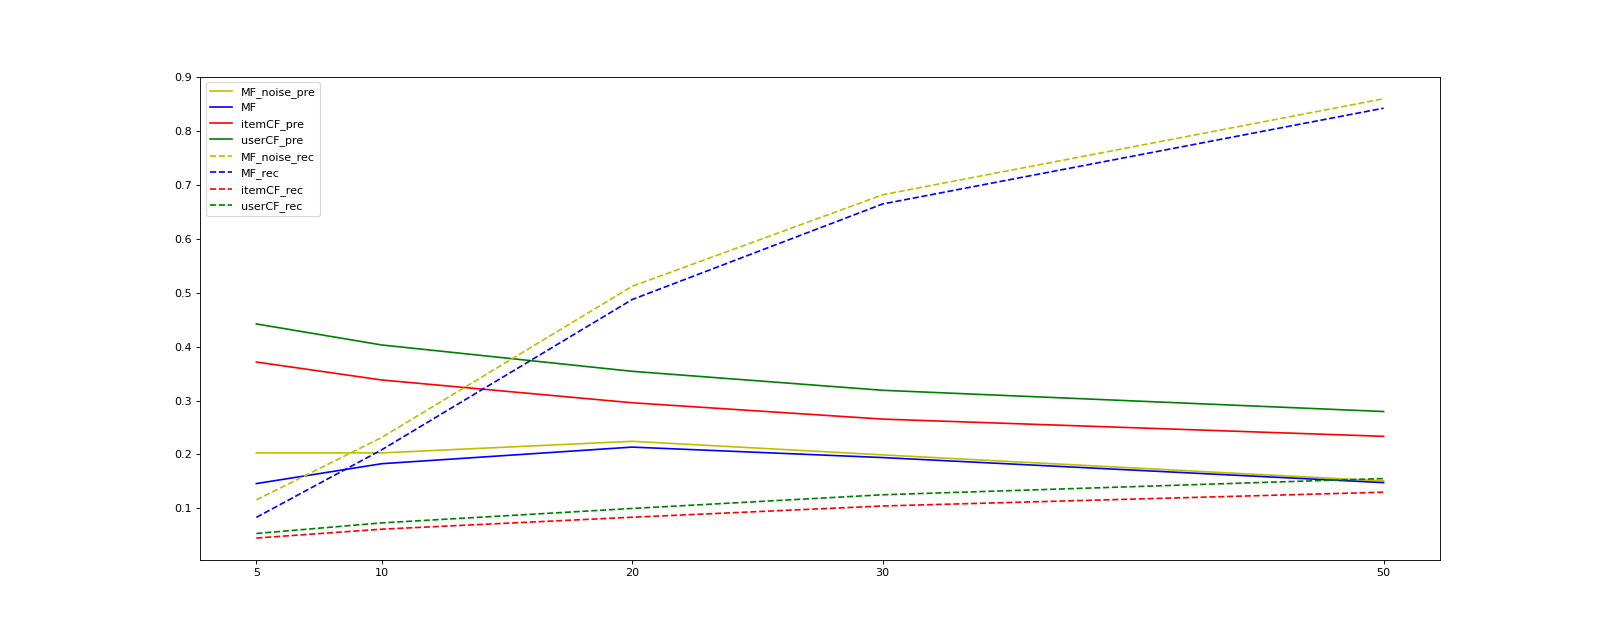
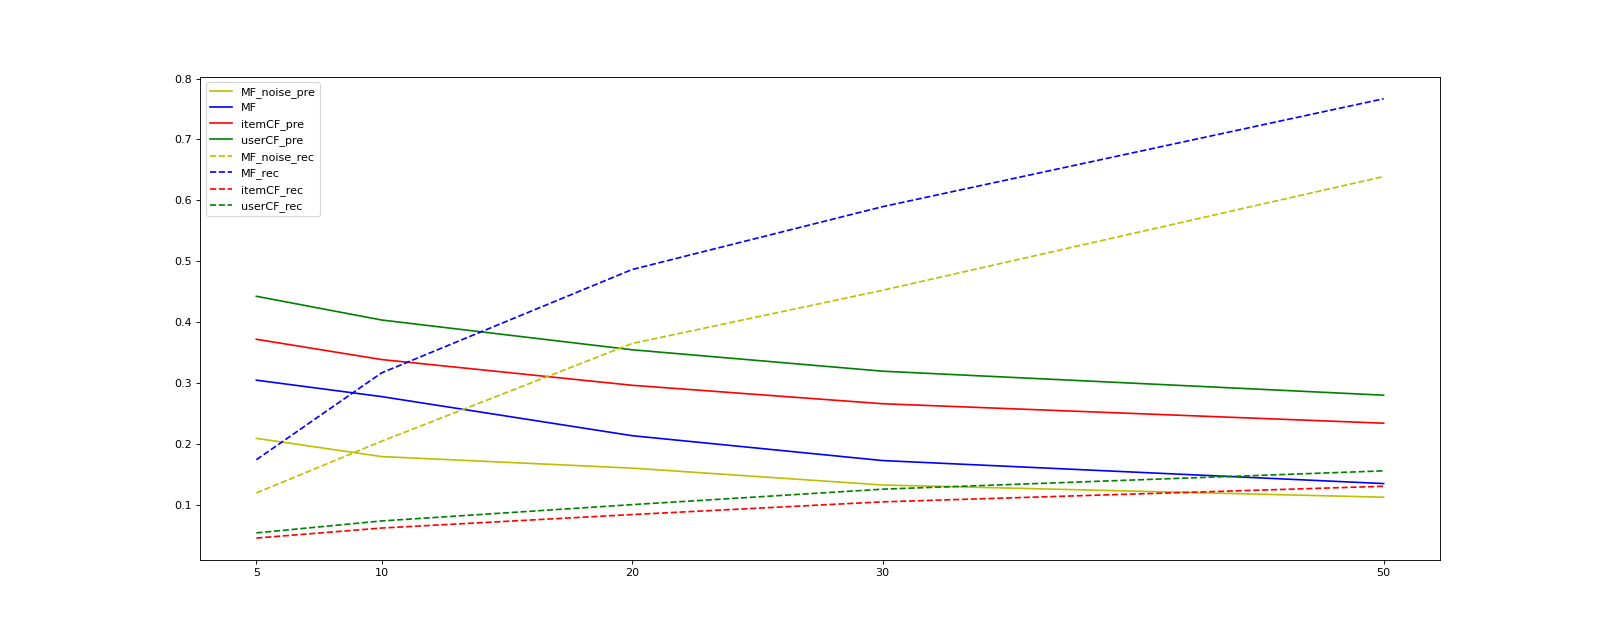
2021年3月22日18点55分

diff --git a/MF/test/evaluate.py b/MF/test/evaluate.py
@@ -18,7 +18,7 @@ test_X, test_y = test
 model = MF(feature_columns, use_bias)
 model.summary()
 # ========================load weights==================================
-model.load_weights('../res/my_weights/MF_noise/')  # with bias(avg+user_bias+item_bias)
+model.load_weights('../res/my_weights/MF/')  # with bias(avg+user_bias+item_bias)
 p, q, user_bias, item_bias = model.get_layer("mf_layer").get_weights()
 model.compile(loss='mse', optimizer=tf.keras.optimizers.SGD(), metrics=['mse'])
 # print("model's sqrt: %f" % np.sqrt(model.evaluate(test_X, test_y)[1]))
@@ -37,16 +37,15 @@ rec_df = pd.DataFrame(recommendation.T, index=range(1, recommendation.shape[1] +
 '''
 对于每个用户 
     对于测试集中该用户已经观看过的每一部电影：
-        1) 取样该用户从未观看过的100部电影。假定用户没有看过某部电影等于用户与该电影没有关联关系，即感兴趣程度低；
-        2) 推荐系统基于该用户从未观看过的100部电影+测试集中该用户已经观看过的电影，生成按照推荐度从高到低排名的物品列表。取Top-N作为推荐列表
-        3) 计算推荐给用户的Top-N推荐的准确性。即如果测试集用户已经观看过的这1部电影出现在TOP-N推荐中，则计1. 最后统计出一个比例
-        4) 对每个用的TOP-N推荐的准确性进行整合，形成一个总指标。
+        1) 取样该用户从未观看过的1000部电影。假定用户没有看过某部电影等于用户与该电影没有关联关系，即感兴趣程度低；
+        2) 推荐系统基于该用户从未观看过的1000部电影+测试集中该用户已经观看过的电影，生成按照推荐度从高到低排名的物品列表。取Top-N作为推荐列表
+        3) 计算推荐给用户的Top-N推荐的召回率。即如果测试集用户已经观看过的这1部电影出现在TOP-N推荐中，则计1. 最后统计出一个比例
+        4) 对每个用户的TOP-N推荐的召回率进行整合，形成一个总指标。
 '''
 
 
-def preAndrec(train, test, N):
-    hit = 0
-    all_pre = 0
+def eva_rec(train, test, N):
+    hit_rec = 0
     all_rec = 0
     # 统计结果
     all_items = set(data_df['MovieId'].unique())
@@ -54,36 +53,60 @@ def preAndrec(train, test, N):
         train_items = set(train.loc[user_id].values.flatten())
         test_items = set(test.loc[user_id].values.flatten())
         other_items = all_items - train_items.union(test_items)
-        random_items = set(random.sample(other_items, 100))
-        random_items = random_items.union(test_items)
-        sort_values = rec_df[user_id].loc[random_items].sort_values(ascending=False)[:N]
-        hit += len(test_items & set(sort_values.index.values))
-        all_pre += N
+        for idx in test_items:
+            random_items = random.sample(other_items, 1000)
+            random_items.append(idx)
+            sort_values = rec_df[user_id].loc[random_items].sort_values(ascending=False)[:N]
+            hit_rec += int(idx in set(sort_values.index.values))
+
         all_rec += len(test_items)
-    return hit / (all_pre * 1.0), hit / (all_rec * 1.0)
+    return hit_rec / (all_rec * 1.0)
+
+
+def eva_acc(train, test, N):
+    hit_acc = 0
+    all_acc = 0
+    # 统计结果
+    all_items = set(data_df['MovieId'].unique())
+    for user_id in test.index.unique().values:
+        train_items = set(train.loc[user_id].values.flatten())
+        test_items = set(test.loc[user_id].values.flatten())
+        other_items = all_items - train_items.union(test_items)
+        random_items = random.sample(other_items, 1000)
+        random_items += list(test_items)
+        sort_values = rec_df[user_id].loc[random_items].sort_values(ascending=False)[:N]
+        hit_acc += len(set(sort_values.index) & test_items)
+        all_acc += N
+    return hit_acc / (all_acc * 1.0)
 
 
 # =========================main===============================
 if __name__ == '__main__':
     _, test_df = test_X
-    test_index_df = pd.DataFrame(test_df[:, 1], index=test_df[:, 0], columns=['MovieId'])
+    test_index_df = pd.DataFrame(test_df, columns=['UserId', 'MovieId'])
     test_y_index_df = pd.Series(test_y, index=test_index_df.index)
-    test_index_df.drop(index=test_y_index_df[test_y_index_df < 4].index, inplace=True)
+    test_index_df.drop(index=test_y_index_df[test_y_index_df < 5].index, inplace=True)
+    test_index_df = test_index_df.set_index('UserId')
+
     _, train_df = train_X
     train_index_df = pd.DataFrame(train_df[:, 1], index=train_df[:, 0], columns=['MovieId'])
+
     N = [5, 10, 20, 30, 50]
     precision = []
     recall = []
     for i in N:
-        p, r = preAndrec(train_index_df, test_index_df, i)
+        r = eva_rec(train_index_df, test_index_df, i)
+        p = eva_acc(train_index_df, test_index_df, i)
         precision.append(p)
         recall.append(r)
     print(precision)
     print(recall)
-    '''
+
+    # ===========================save===============================
+'''
     pre_dataFrame = pd.read_csv('../../precision.csv', engine='python')
     rec_dataFrame = pd.read_csv('../../recall.csv', engine='python')
-    pre_dataFrame['MF_noise']=precision
-    rec_dataFrame['MF_noise']=recall
-    pre_dataFrame.to_csv('../../precision.csv',index=False)
-    rec_dataFrame.to_csv('../../recall.csv',index=False)'''
+    pre_dataFrame['MF_noise'] = precision
+    rec_dataFrame['MF_noise'] = recall
+    pre_dataFrame.to_csv('../../precision.csv', index=False)
+    rec_dataFrame.to_csv('../../recall.csv', index=False)'''

diff --git a/MF/train.py b/MF/train.py
@@ -42,7 +42,7 @@ if __name__ == '__main__':
     model = MF(feature_columns, use_bias=use_bias)
     model.summary()
     # ============================Compile============================
-    optimizer = Adam(learning_rate=learning_rate)
+    optimizer = SGD(learning_rate=learning_rate)
     model.compile(loss='mse', optimizer=optimizer,
                   metrics=['mse'])
     # ==============================Fit==============================
